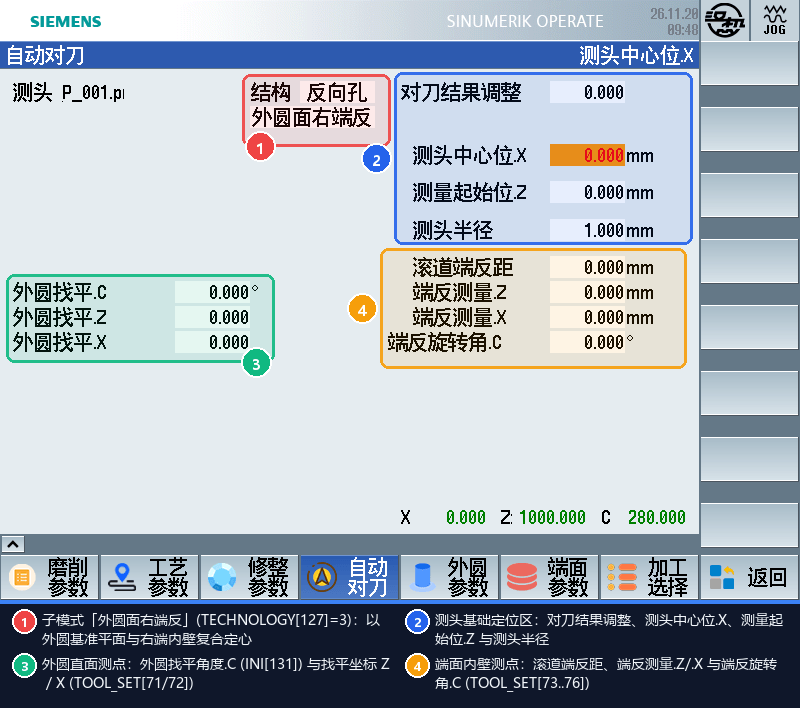
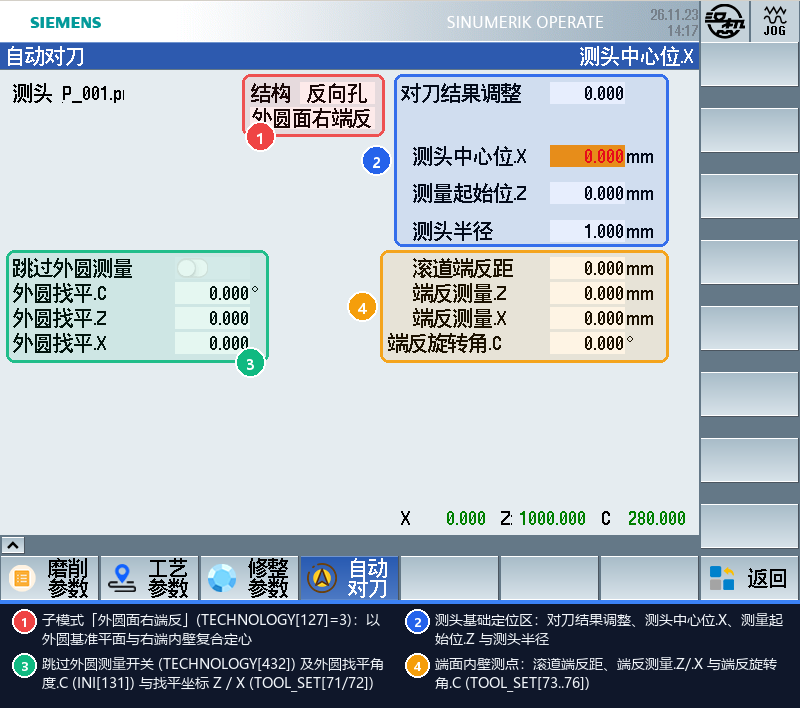
docs: 同步程序库近期更新、NC 源码核对修正与 Mask27 实拍标注图

diff --git a/tools/annotate_screenshots.py b/tools/annotate_screenshots.py
@@ -686,10 +686,10 @@ HMI_SPECS = {
     },
     "hmi_auto_internal_linewall.png": {
         "callouts": [
-            ([242, 74, 390, 146], "bot_l", "子模式「外圆面右端反」(TECHNOLOGY[127]=3)：以外圆基准平面与右端内壁复合定心"),
-            ([394, 72, 692, 244], "out_l", "测头基础定位区：对刀结果调整、测头中心位.X、测量起始位.Z 与测头半径"),
-            ([6, 274, 274, 362], "bot_r", "外圆直面测点：外圆找平角度.C (INI[131]) 与找平坐标 Z / X (TOOL_SET[71/72])"),
-            ([380, 248, 686, 368], "out_l", "端面内壁测点：滚道端反距、端反测量.Z/.X 与端反旋转角.C (TOOL_SET[73..76])"),
+            ([242, 74, 384, 136], "bot_l", "子模式「外圆面右端反」(TECHNOLOGY[127]=3)：以外圆基准平面与右端内壁复合定心"),
+            ([394, 74, 668, 246], "out_l", "测头基础定位区：对刀结果调整、测头中心位.X、测量起始位.Z 与测头半径"),
+            ([6, 250, 268, 362], "bot_r", "跳过外圆测量开关 (TECHNOLOGY[432]) 及外圆找平角度.C (INI[131]) 与找平坐标 Z / X (TOOL_SET[71/72])"),
+            ([380, 250, 668, 362], "out_l", "端面内壁测点：滚道端反距、端反测量.Z/.X 与端反旋转角.C (TOOL_SET[73..76])"),
         ]
     },
 }

diff --git a/7_dressing_and_shapes/dressing_main.md b/7_dressing_and_shapes/dressing_main.md
@@ -4,7 +4,7 @@
 
 ![SinuTrain V-W 单滚轮修整参数主界面实拍（Mask3）](../images/sinutrain/hmi_external_dress.png)
 
-> **架构差异提示**：插补式（`V-W` / `X-Z` / `U-W`）与成型滚压式（`V` / `X` / 液压摆缸）均在此主界面的顶部 **`修整器类型`** 下拉框切换；选中成型或摆缸后，`a_dress.com` 右侧 `VS7 滚压轮` 自动激活，取代三角/梯形/双圆弧等插补齿形软键；若为液压摆缸机型（`;ifIsVH`），进入滚轮子页后可在该子页右侧使用 `VS8 摆缸`。
+> **架构差异提示**：插补式（`V-W` / `X-Z` / `U-W`）与成型滚压式（`V` / `X` / 液压摆缸）均在此主界面的顶部 **`修整器类型`** 下拉框切换；选中 `V` 或 `X` 成型后，`a_dress.com` 右侧 `VS7 滚压轮` 自动激活，取代三角/梯形/双圆弧等插补齿形软键；注意当 `修整器类型` 切为 **`液压`**（`DRESSER[0]=3`）时，主界面右侧 `VS1`～`VS7` 均自动置灰，**纯液压摆缸构型无法从修整主界面直接进入 `a_dressware.com` 的 `Mask15 摆缸` 页面**（`VS8 摆缸` 仅在源码保留于 `a_dressware.com` 滚轮子页内部）。
 
 ## 1. 修整器类型与模式组合
 
@@ -14,14 +14,14 @@
   - 插补模式：**`VW`**（外/内通用 V-W 两轴）、**`XZ`**（X-Z 插补，含 `X-W`）或 **`UW`**；
   - 成型滚压模式：**`V`**、**`X`（前/后，对应 `DRESSER[37]=0/1`）** 或 **`液压`**（摆缸液压成型，对应 `DRESSER[0]=3`）；
   - 若设备同时配有滚压轮与单轴/双轴修整能力，可直接在 **`VW / V`** 或 **`XZ / X`** 之间自由切换。
-- **修整轮类型（`DRESSER[3]`）**：`0` 单滚轮 / `1` 双滚轮 / `2` 方滚轮（选中成型修整器时右侧自动切为 `VS7 滚压轮`，滚轮子页内部包含 `VS8 摆缸`）。
+- **修整轮类型（`DRESSER[3]`）**：`0` 单滚轮 / `1` 双滚轮 / `2` 方滚轮（选中 `V`/`X` 成型修整器时右侧自动切为 `VS7 滚压轮`，`a_dressware.com` 滚轮子页内部保留 `;ifIsVH` 条件编译的 `VS8 摆缸` 入口）。
 - **齿形选择（`DRESSER[4]`）**：`0` 三角 / `1` 梯形 / `2` 双圆弧（仅外螺纹全齿形且开启附加齿形时，`a_dress.com` 主页右侧 **`VS8` 扩展菜单** 可用，展开二级菜单 `MENU_2` 后点击 `VS1` 可切换 **`行星齿`**）；若在 **机床配置 → 修整配置** 中开启 **`平面修砂轮`（NC：`TECHNOLOGY[431] = 1` / HMI：`TECHNOLOGY[432]`）**，`齿形` 下拉列表会动态追加 **`4` 平面**（独立于 `DRESSER[114]`；若关闭该开关而当前仍停留在 `4`，系统载入时自动回退为 `2 双圆弧`）。
 
 ## 2. 新砂轮 vs 旧砂轮 & 新砂轮插补模式
 
 | 界面参数 | NC 变量 | 工作机理与操作建议 |
 | :--- | :--- | :--- |
-| **砂轮状态** | `DRESSER[5]` | **`0` 新砂轮**：更换新砂轮后务必手动切到此态，正确录入实际 **`新砂轮直径`**（建议比卡尺测量实值偏大约 `0.2 mm` 留空程余量）。<br>启动修整后，程序将依据 **齿高** 与 **`最大磨削直径`** 自动把砂轮修整成型并达到预定工作直径；一旦完成，系统 **自动将状态切回 `1 旧砂轮`**。<br>**`1` 旧砂轮**：日常修整使用。按界面下方设置的 **`粗修次数`** 与 **`精修次数`** 从当前接触位继续切入修整 |
+| **砂轮状态** | `DRESSER[5]` | **`0` 新砂轮**：更换新砂轮后务必手动切到此态，正确录入实际 **`新砂轮直径`**（建议比卡尺测量实值偏大约 `0.2 mm` 留空程余量）。<br>启动修整**第一刀开始后，系统即自动将状态切回 `1 旧砂轮`**，并随每次修整动态更新砂轮直径与磨削位置（中途停止后再次启动，按旧砂轮从当前接触位继续修整）；内螺纹新砂轮修整时，程序按 `(新砂轮直径 - 最大磨削直径) / 2` 自动计算粗修、精修次数（最后约 5 次为精修，界面上输入的粗修、精修次数不起作用）。<br>**`1` 旧砂轮**：日常修整使用。按界面下方设置的 **`粗修次数`** 与 **`精修次数`** 从当前接触位继续切入修整 |
 | **是否成型砂轮** | `DRESSER[113]` | *当 `TECHNOLOGY[58]=1` 且内螺纹时在 `新砂轮` 旁显示*：<br>**`0` 普通**：毛坯平砂轮，新砂轮开修从齿顶安全抬刀高度逐步一层层修出牙型；<br>**`1` 成型**：砂轮出厂前已被厂家预成型出近似槽型，无需高抬刀空走，直接贴合初始轮廓快速精成型 |
 | **新砂轮插补修整模式** | `INI[88]` | 在 **机床配置**（`a_setting.com`）设定：<br>**`0` 抬齿高**：以牙型中心线为中心逐次向深处逼近，最常用；<br>**`1` 偏半个砂轮宽度**：分别从砂轮左右侧面逐步向中心偏置剥除余量（适合深大齿型） |
 | **新砂轮轮廓单独参数** | `TECHNOLOGY[302..304]` | 当开启 `TECHNOLOGY[302]=1` 时，粗修框右侧弹出高亮副框（`LUNKUO_FEED` / `LUNKUO_SPEED`），专用于控制新砂轮第一次拉通型面的单刀进给量与修整速度 |
@@ -41,7 +41,7 @@
 | **最小磨削直径** | `DRESSER[35]` | 根据砂轮法兰盘外径或内磨杆外径 + `2×齿高` 加上安全余量设定。当 `DRESSER[24] < DRESSER[35]` 时触发 **2 号报警“砂轮太小”** |
 | **最大磨削直径** | `DRESSER[49]` | **主要针对内螺纹或限孔尺寸机型**：限制砂轮能顺利进入工件内孔的最大直径；新砂轮修整时会自动将外径修小至此尺寸以下。若加工时当前砂轮直径仍大于此值则报警拦截 |
 | **修整角度（A 轴）** | `INI[153]` | 需配 `A` 轴并开启 `INI[154]=1` 后在左上角出现，范围 `-90° ~ 90°`（默认 `0°`）；当磨削大导程/大螺旋升角需要消除干涉修整时设入该角度 |
-| **加工中修整补偿 / 累计** | `DRESSER[70]` / `DRESSER[71]` | 当开启 `DRESSER[58]=1` 后显示在左上区（`-0.5 ~ 0.5 mm`）：每完成一次 **磨削中修整**，除了正常的砂轮半径补偿外，额外把磨削接触位朝坐标轴方向再微补 `DRESSER[70]`（其总累计值只读显示在 `DRESSER[71]`），常用于消除热膨胀造成的批产尺寸单向漂移 |
+| **加工中修整补偿 / 累计** | `DRESSER[70]` / `DRESSER[71]` | 当开启 `DRESSER[58]=1` 后显示在左上区（`-0.5 ~ 0.5 mm`）：仅在 **磨削中自动修整** 时生效（单独点亮修整键时不补偿），**每精修一刀** 除正常砂轮半径补偿外，额外把磨削接触位（`PROCESS[13]` / `PROCESS[4]`）朝坐标轴方向叠加 `DRESSER[70]`（累计总值只读显示在 `DRESSER[71]`）；新砂轮修整时程序会先从磨削位置扣除 `DRESSER[71]` 再清零，首件手动对刀后亦会自动清零，常用于消除热膨胀造成的批产尺寸单向漂移 |
 | **外部齿形扩展栏** | `DRESSER[139]` / `SHAPE_MODEL[0]` / `STRING_ADDON[0]` / `SHAPE_EXTERNAL` / `PROCESS[123]` / `PROCESS[124]` | 开启 `DRESSER[110]=1` 后显现：分别设置 `齿型调用选择`（`0` 否 / `1` 左右分开 / `2` 连续轨迹）、`存储位置`、`外部程序目录`、`外部齿型程序名`、`连续曲线齿高`（`PROCESS[123]`）与 `抬刀高度`（`PROCESS[124]`，详见 [7.3 节](shape_profiles.md)） |
 | **蜗杆专用扩展栏** | `WORM_SHAPE` / `INI[18]` | 配置 `;ifIsHasWorm` 时显现：设置蜗杆廓形子程序名 `WORM_SHAPE` 与 `蜗杆齿高`（NC：`INI[18]` / HMI：`INI[19]`） |
 

diff --git a/8_auto_tool_setting/internal_auto_set.md b/8_auto_tool_setting/internal_auto_set.md
@@ -19,7 +19,7 @@
 
 | 参数名称 | NC 变量 | 标定方法与现场设置说明 |
 | :--- | :--- | :--- |
-| **对刀结果调整** | `TOOL_SET[41]` | 试磨后发现整体偏刀时输入的整体微调值（mm），不影响标定基准 |
+| **对刀结果调整** | `TOOL_SET[41]` | 试磨后发现整体偏刀时的微调量（不影响标定基准），**单位随测量方式区分**：<br>• **内滚道 / 反向孔常规模式 / 外圆面右端反**：单位为 **`mm`**（折算偏移量）；<br>• **只测 C / 测量右端小台阶 / 测量右端定位孔**：直接叠加到加工起始角 `TOOL_SET[4]`，单位为 **度（`°`）** |
 | **测头/开关水平距** | `TOOL_SET[10]` | **极其关键的基准参数**（见上图左图红箭头）：<br>① 开动机床使测头/开关接触工件右侧端面，记 Z 坐标 `Z1`；<br>② 移开测头，让砂轮齿顶对准同一右端面，记 Z 坐标 `Z2`；<br>③ 已知测头球头半径 $R_1$，填入 $\text{测量水平距} = \left| Z_1 - R_1 - Z_2 \right|$ |
 | **测头中心位** | `PROCESS[53]` | 测头球心正好位于工件回转中心线时的 X 轴坐标（接触外圆测 X 坐标再加工件外半径算出） |
 | **Z 轴测量起点** | `INI[48]` | 测头伸出并保证工件在安全孔外约 `50 mm` 处的 Z 轴起点 |
@@ -58,14 +58,17 @@
 
 ## 4. 磨削中心专属：跳动、外圆长与左右端面安全检测
 
-在 **磨削中心（`;ifIsCenter`）** 界面中，画面左侧展示复检设定与实测结果，**右侧垂直软键栏**额外配备了多道用于全自动无人产线的安全复检按钮（垂直软键随当前对刀画面动态分布：**`Mask23` 接近开关测量**含 `VS1 右端测量` / `VS2 外圆跳动` / `VS3 左端测量`，**`Mask24` 接触式测头反向孔**含 `VS1 外圆跳动` / `VS2 左端测量`）：
+在 **磨削中心（`;ifIsCenter`）** 界面中，画面左侧展示复检设定与实测结果，**右侧垂直软键栏**用于选择本次自动对刀要包含的复检项目（点亮即包含；随当前对刀画面动态分布：**`Mask23` 接近开关测量**含 `VS1 右端测量` / `VS2 外圆跳动` / `VS3 左端测量`，**`Mask24` 接触式测头反向孔**含 `VS1 外圆跳动` / `VS2 左端测量`）：
 
-1. **右端测量（默认自动测量）**：
+1. **右端测量**：
    - 输入手动对好标准件右端面时的 **`右端测量设置`（`INI[136]`）**、**`右端测量角度`（`INI[131]`）** 及 **`右端测量阈值`（`INI[137]`，如 `0.05 mm`）**；
-   - 每次自动对刀必测右端，一旦 `实测结果`（`INI[50]`）与 `设定值` 差值（`INI[139]`）超过阈值，立即触发 **12 号报警（工件右端过长）** 停机（排查毛坯超长或卡盘夹持未顶到位！）；
+   - **执行条件**：`Mask23` 内滚道方式下可单独开关（但打开 `外圆跳动` 或 `左端测量` 时会自动联动点亮，关闭 `右端测量` 时另两项同步关闭）；接触式测头方式下除外圆面右端反（`Mask27`）外均执行右端测量；
+   - **单向阈值检验**：仅校验 `实测结果`（`INI[50]`）与 `设定值` 的正向差值 `INI[139] = 实测 - 设置 > 阈值`，超限时立即触发 **12 号报警（工件右端过长）** 停机（反方向偏差不报警）；
 2. **外圆跳动测量（`INI[138]` + `INI[127]`）**：
-   - 开启后沿外圆按 3 点探测圆跳动（`INI[133]`），超过 **`外圆跳动阈值`**（`INI[127]`，如 `0.08 mm`）立刻触发 **11 号报警（外圆跳动/圆度过大）** 防偏心撞刀；
+   - **仅在内滚道（`Mask23`）和测量反向孔（`Mask24`）模式下执行**（右端台阶、右端孔、外圆面右端反不执行）；开启后沿外圆按 3 点探测圆跳动（`INI[133]`），超过 **`外圆跳动阈值`**（`INI[127]`，如 `0.08 mm`）立刻触发 **11 号报警（外圆跳动/圆度过大）** 防偏心撞刀；
 3. **左端测量与工件长度测量（`TOOL_SET[44..48]` & `INI[30]` / `INI[140]`）**：
-   - 开启 `TOOL_SET[44]=1` 后测量左端面（避让角度 `TOOL_SET[58]`、左端安全值 `TOOL_SET[45]` / 阈值 `TOOL_SET[47]` / 实测与误差 `TOOL_SET[46]` / `TOOL_SET[48]`），超限触发 **13 号报警（工件左端过长）**；同时实时反算并回显实际 **`工件外圆长度测量`（`INI[140]`）**（以上报警代码详见 [10.1 节](../10_appendix_and_troubleshooting/alarms_and_faq.md)）。
+   - 同样**仅在内滚道（`Mask23`）和测量反向孔（`Mask24`）模式下执行**；开启 `TOOL_SET[44]=1` 后，测头移到外圆外侧、比 `耳高` 低约 1.5 个测头直径处并转至 `左端测量角`（`TOOL_SET[58]`）避开卡爪，从右端面起沿 Z 向最多探测 **`工件外圆长度 + 5 mm`**（`INI[30] + 5`）寻找左端面——若 `INI[30]` 过短或 `耳高` 过大导致碰不到端面，会触发 **8 号报警（`工件长度设置有误!`）**；
+   - 端面偏差仅单向校验 `实测 - 设置 > 左端测量阈值`（`TOOL_SET[48] > TOOL_SET[47]`），超限触发 **13 号报警（工件左端过长）**；测量成功后自动将实测 **`工件外圆长度测量`（`INI[140]`）** 写回 `INI[30]`（以上报警代码详见 [10.1 节](../10_appendix_and_troubleshooting/alarms_and_faq.md)）；
+4. **整体测量顺序**：内滚道方式先测螺纹槽，再依次测右端面、外圆跳动、左端面；测头方式依次测右端面、外圆跳动、反向孔，最后测左端面。测量完成后对应工序的当前磨削接触位复位到初始值。
 
 > **重要提醒**：在磨削中心中，自动对刀完成后系统紧接着就会按 **加工选择看板** 点亮的绿色工序切入磨削；但外圆和端面的起刀深度 **仍以各自界面的 `初始磨削接触` 为准**，自动对刀仅负责核查毛坯装夹位置是否超差及求解内螺纹 C 轴起始角！

diff --git a/7_dressing_and_shapes/wheel_setup.md b/7_dressing_and_shapes/wheel_setup.md
@@ -1,6 +1,6 @@
 # 7.2 滚轮类型与修整中心校准方法
 
-在 **修整参数** 界面（`a_dress.com`）按配置动态显示的右侧垂直软键中点击 **`单滚轮`**（`VS4`）、**`双滚轮`**（`VS5`）、**`方滚轮`**（`VS6`）或 **`滚压轮`**（`VS7`），即可进入 `a_dressware.com` 对应硬件型号的滚轮标定页；若配置为液压摆缸机型（`;ifIsVH`），进入 `a_dressware.com` 滚轮子界面后可点击子页右侧 **`摆缸`**（`VS8`）切入 `Mask15`。
+在 **修整参数** 界面（`a_dress.com`）按配置动态显示的右侧垂直软键中点击 **`单滚轮`**（`VS4`）、**`双滚轮`**（`VS5`）、**`方滚轮`**（`VS6`）或 **`滚压轮`**（`VS7`），即可进入 `a_dressware.com` 对应硬件型号的滚轮标定页；注意当 `修整器类型` 为纯 `液压`（`DRESSER[0]=3`）时，`a_dress.com` 主页 `VS1`～`VS7` 会全部置灰，无法直接进入 `a_dressware.com`（`Mask15 摆缸` 仅在源码保留于 `a_dressware.com` 滚轮子页内部 `VS8 摆缸`（`;ifIsVH`），供具备双构型入口的历史/定制机型进入）。
 
 ![SinuTrain 单滚轮修整中心与接触位校准界面实拍（Mask4）](../images/sinutrain/hmi_external_wheel.png)
 
@@ -15,7 +15,7 @@
 | **单滚轮** | `Mask4`（VW/UW）<br>`Mask12`（XZ/XW） | **`圆弧半径`**（`WHEEL[4]`，即滚轮尖端圆弧角 `R`，务必查图纸输入精确值，精度至 `0.0001 mm`） | **修整中心**、`初始接触位置`、`当前接触位置`、**`修整轮直径`**（`WHEEL[0]`）、**`修整轮线速度`**（`WHEEL[1]`，常用 `15 m/s`）与自动换算的 **`修整轮转速`**（`WHEEL[19]`） |
 | **方滚轮** | `Mask6`（VW/UW）<br>`Mask14`（XZ/XW） | **`方滚轮厚度`**（`WHEEL[3]`）、**`左圆弧半径`**（`WHEEL[8]`）、**`右圆弧半径`**（`WHEEL[9]`） | 同上，影响方滚轮修整两侧砂轮边缘时的偏置宽度与倒圆补偿 |
 | **双滚轮** | `Mask5`（VW）<br>`Mask13`（XZ） | **`双滚轮间距`**（`WHEEL[2]`）、**`左/右圆弧半径`**（`WHEEL[6]` / `WHEEL[7]`）、**`左右轮高低差`**（`WHEEL[15]`：实测左高右低输正，左低右高输负）、左/右端分别独立的初始与当前接触位（初始 `WHEEL[12]` / `WHEEL[13]` 与当前 `WHEEL[10]` / `WHEEL[11]`） | 同上，专用于两边对称或高速双面成型插补 |
-| **滚压轮 / 摆缸** | `Mask11`（VW）<br>`Mask16/17/19`（XZ/X）<br>`Mask15`（液压摆缸） | **`粗修停留时间`**（`DRESSER[47]`）与 **`精修停留时间`**（`WHEEL[18]`，推荐 `1 s`）；**`修整中反向距离`**（`INI[11]`：`0 ~ 1 mm`，`0` 表示持续进给不退让）；**`齿高`**（`DRESSER[1]`）；**`轮廓成型接触`**（`WHEEL[12]`）；**`成型修完侧面靠磨`**（使能 `TECHNOLOGY[308]`、**`靠磨-后退距离`** `TECHNOLOGY[350]`、**`靠磨-侧进距离`** `TECHNOLOGY[351]`）；液压摆缸页实时监控 **`液压左接触`（`WHEEL[16]`）** 与 **`液压右接触`（`WHEEL[17]`）** 开关状态 | **`VW/XZ`** 下的滚压轮仍需设置 `修整中心`，`XZ`/`X` 模式需校验 `修整中心距` |
+| **滚压轮 / 摆缸** | `Mask11`（VW）<br>`Mask16/17/19`（XZ/X）<br>`Mask15`（液压摆缸） | **`粗修停留时间`**（`DRESSER[47]`）与 **`精修停留时间`**（`WHEEL[18]`，推荐 `1 s`）；**`修整中反向距离`**（`INI[11]`：`0 ~ 1 mm`，滚压轮每次进给停留后**修整轮向后回退**脱离砂轮的距离，`0` 表示不回退直接连续进给）；**`齿高`**（`DRESSER[1]`）；**`轮廓成型接触`**（`WHEEL[12]`）；**`成型修完侧面靠磨`**（使能 `TECHNOLOGY[308]`、**`靠磨-后退距离`** `TECHNOLOGY[350]`、**`靠磨-侧进距离`** `TECHNOLOGY[351]`）；液压摆缸页实时监控 **`液压左接触`（`WHEEL[16]`）** 与 **`液压右接触`（`WHEEL[17]`）** 开关状态 | **`VW/XZ`** 下的滚压轮仍需设置 `修整中心`，`XZ`/`X` 模式需校验 `修整中心距` |
 
 ![SinuTrain VW 双滚轮间距、高低差与左右独立接触位校准界面实拍（Mask5）](../images/sinutrain/hmi_wheel_dual.png)
 

diff --git a/10_appendix_and_troubleshooting/alarms_and_faq.md b/10_appendix_and_troubleshooting/alarms_and_faq.md
@@ -13,7 +13,7 @@
 | **`5`** | `测头无法进入孔内,请检查参数设置!` | 内螺纹自动对刀检测反向孔时，测头按预定角度和偏心无法顺利进孔（触碰孔壁或未开启孔周探测） | 检查 `反向孔测量角`、`距右端距离`、`Z 起点`、`测头中心位`、孔圆/腰型参数，或开启 **孔周探测**（`TECHNOLOGY[155]=1`） |
 | **`6`** | `检测不到信号,检查测量位.X是否合适!` | 接近开关扫描时在预定行程内未收到触发反馈（<code>&#36;A_PROBE</code> / <code>&#36;AC_MEA</code> 未响应） | 确认传感器供电及 `DB2700.DBX1.0/1.1` 状态灯能正常触发，微调 `测量位.X` 令传感器进入有效感应区 |
 | **`7`** | `测头距离工件过远,或检测位置太靠外侧!` | 测头移动完整行程仍未接触工件表面 | 核对 `测头中心位`、`外圆直径`、`右端测量设置` 或传感器伸出机械限位，适当往安全方向缩短空程距离 |
-| **`8`** | `工件长度设置有误!` | 外圆长度/左右端坐标推算长度 `<= 0` 或不符合 `保持分段`/台阶要求 | 检查磨削中心 `外圆长度`（`INI[30]`）及左右端接触坐标 |
+| **`8`** | `工件长度设置有误!` | 外圆长度/左右端坐标推算长度 `<= 0` 或不符合 `保持分段`/台阶要求；磨削中心左端测量沿 Z 向移动 `工件外圆长度 + 5 mm` 未碰到左端面也会触发此报警 | 检查磨削中心 `外圆长度`（`INI[30]`）及左右端接触坐标 |
 | **`9`** | `外圆砂轮过小,请更换新砂轮!` | 磨削中心外圆砂轮当前直径 `DRESSER[91]` 低于外圆 `最小磨削直径` `DRESSER[137]` | 更换外圆砂轮并切回 **新砂轮** 状态，重标外圆及端面初始接触位 |
 | **`10`** | `变螺距设置有误!` | 开启了多螺距变换但分段位置坐标未呈单调递增/递减排序或目标螺距 `<= 0` | 进入 `磨削参数 → VS5 螺距变换`，核对 `位置 1~6` 顺序与螺距值 |
 | **`11`** | `外圆跳动:XXmm,工件圆度过大!阈值:XXmm` | 磨削中心自动对刀测得三点外圆跳动 `INI[133]` 大于 `外圆跳动阈值` `INI[127]` | 重新找正装夹工件、清理卡盘铁屑或核对三点测量角度后复测 |
@@ -33,3 +33,4 @@
 | **输入数值报错或自动恢复原值** | 修改中径/进给量/头架转速/安全位置时被拒绝 | 触及 **系统配置 → 第六类参数输入限制** 保护阈值（默认中径 `±1 mm`、非粗磨进给 `±0.1 mm`、转速 `60 RPM`、内磨安全 Z 距右端 `>= 30 mm`）。或右侧小锁未解锁 |
 | **纯修整也提示磨削位置报警** | 仅点亮修整键修砂轮，却提示左端>右端等报警 | 程序运行前会先经过 `C_PAR_INI` 统一初始化检验，须先在 **磨削参数** 页填入大致有效的左/右端及退刀位置后再修整 |
 | **解锁配置页报缺失/无效** | `a_setting.com` `Mask0` 提示 `配置丢失` / `配置缺损` / `配置无效` | 检查 `user/`、`oem/` 或 `siemens/` 路径下的 `sinumerik/hmi/cfg/machine_sec.ini` 是否随包完整导入、无手工改动字段（见 [3.1 节](../3_creator_tools/password_calculator.md)） |
+| **自动对刀过程停机提示（`C_OPERATION_AUTO.SPF` 直接 `MSG` 提示）** | 1. `测量失败, 请检查测量位置设置是否合适`<br>2. `测量错误,测头未检测到信号`<br>3. `测头回退出错,请检查`（以上提示已支持中/英/俄三语） | 1. 内滚道方式连续 5 次碰到牙顶仍未找到槽内空隙：重新核对 `测量位.Z` 是否对准螺纹槽；<br>2. 外圆面右端反模式未测到找平面或端反内壁：核对 `外圆找平` 与 `端反测量` 坐标；<br>3. 测量轴探测回退期间传感器信号未及时复位（如外螺纹开关压在牙顶且 C 轴正转 3 次每次 5° 仍未离开）：检查测头/开关位置与工件装夹 |

diff --git a/9_grinding_center/endface_grinding.md b/9_grinding_center/endface_grinding.md
@@ -11,7 +11,7 @@
 | 区域 | 关键输入字段 | NC 变量 | 自动起止位置计算公式与规则 |
 | :--- | :--- | :--- | :--- |
 | **公共** | **加工模式** | `INI[103]` | `0` 单件小批量 / `1` 批量生产（同样控制从初始接触还是当前接触起刀） |
-| **左端面（左侧栏）** | **耳高** | `INI[43]` | 实测工件左端凸缘/耳环径向高度（精确至 `0.1 mm`）。系统自动据此算得左端切入范围：<br>• `磨削起点` $\approx$ 外圆当前接触 $\pm 0.1\text{ mm}$<br>• `磨削终点` $\approx$ 外圆当前接触 $\pm \text{耳高} \pm 1\text{ mm}$（随外磨有 U 轴 / X 前置 / X 后置方向自动确定符号） |
+| **左端面（左侧栏）** | **耳高** | `INI[43]` | 实测工件左端凸缘/耳环径向高度（精确至 `0.1 mm`）。系统自动据此算得左端切入范围（按外圆轴向与前后置构型区分符号）：<br>• 有独立 `U` 轴（`;ifIsHasU`）或无 `U` 轴外磨前置（`;ifIsNotHasUFront`）：`磨削起点 = 外圆当前接触 + 0.1 mm`，`磨削终点 = 外圆当前接触 + 耳高 + 1 mm`；<br>• 无 `U` 轴外磨后置（`;ifIsNotHasUBack`）：`磨削起点 = 外圆当前接触 - 0.1 mm`，`磨削终点 = 外圆当前接触 - 耳高 - 1 mm`；<br>实际拉磨终点再按左端面 `终点补偿`（`TECHNOLOGY[45]`）缩短；端面磨削以外圆当前接触为基准，因此应先完成外圆磨削 |
 | | **左端终点补偿 / 初始 & 当前接触 .Z / 磨削补偿** | `TECHNOLOGY[45]` / `PROCESS[48/34]` / `TECHNOLOGY[297]` | 手动靠磨左端面后退约 `0.05 ~ 0.1 mm` 输入 `初始接触.Z`；成品轴向偏差微调使用 `磨削补偿`（`±1 mm`，开放 **`ac7` 钥匙开关 0 档** 权限以便日常尺寸微调；`VS2 工艺` 表内次数与进给量则统一为 **`ac4` 钥匙开关 3 档**） |
 | **右端面（右侧栏）** | **壁厚** | `PROCESS[27]` | 实测工件右端壁面径向厚度（精确至 `0.1 mm`）。自动算得右端切入范围：<br>• `磨削起点` $\approx$ 外圆当前接触 $\mp \text{壁厚}$<br>• `磨削终点` $\approx$ 外圆当前接触 $\pm 1\text{ mm}$ |
 | | **右端终点补偿 / 初始 & 当前接触 .Z / 磨削补偿** | `TECHNOLOGY[46]` / `PROCESS[47/37]` / `TECHNOLOGY[298]` | 手动靠磨右端面后填入 `初始接触.Z`；若仅需磨右端而不完全离开外圆面可填写 `右端终点补偿`（但不可大到令终点反超起点）；`磨削补偿` 同样支持 **`ac7` 钥匙开关 0 档** 直接微调 |
@@ -22,7 +22,7 @@
 
 端面工艺表 `Mask25` 同时呈现 **四列独立参数**（**左端面 粗磨 / 精磨** ｜ **右端面 粗磨 / 精磨**），方便针对左右端不同的余量分布独立优化：
 - 同样支持 **`保持`**（轴向快速进刀停留磨削，适合去余量）与 **`来回`**（沿端面径向来回光刀）；
-- 粗磨推荐 **`保持`**，头架转速建议设为 **`120 ~ 200 RPM`** 以上以提升端面平面度；
+- 粗磨推荐 **`保持`**，头架转速一般设为 **`120 r/min` 左右**，再按实际表面粗糙度与加工效果微调；
 - 表格上方同步只读监控 **`左端累计/设定磨削`**（`PROCESS[60]` / `PROCESS[116]`）与 **`右端累计/设定磨削`**（`PROCESS[61]` / `PROCESS[117]`）；表格底部提供 `砂轮线速度`、自动换算 `头架转速` 与定转速模式下的 `砂轮转速`。
 
 ## 3. 端面修整参数与双向交叉补偿机制（`Mask27`）

diff --git a/2_creator_machine_config/machine_and_system_info.md b/2_creator_machine_config/machine_and_system_info.md
@@ -19,7 +19,7 @@
 
 | 界面字段 | JSON 键名 & UI 枚举（索引从 `0` 起） | 底层生成差异（由 `generatepro.cpp` 控制） |
 | :--- | :--- | :--- |
-| **机床语言** | `lng`：`0` 中文 / `1` 多语言 | `lng=0` 时移除 `;ifIsENG` 英文/多语言段、保留纯中文；`lng=1` 时移除 `;ifIsCHS` 并打包多语言 `almc_*.txt` 与 `hlp/eng` 等资源，便于在现场切换中/英文显示。 |
+| **机床语言** | `lng`：`0` 中文 / `1` 多语言 | `lng=0` 时移除 `;ifIsENG` 英文/多语言段、保留纯中文；`lng=1` 时移除 `;ifIsCHS` 并打包多语言 `almc_*.txt` 与 `hlp/eng`、`hlp/rus` 三语帮助资源，便于在现场切换中/英/俄三语显示。 |
 | **数控系统** | `systemMode`：`0` 老版 828D | 将 HMI 运行包写入 `System-CF-Card/siemens` 与 `user`，使用 `ico800`（`800×600`）图标资源。在 **SinuTrain 840D sl 4.8 SP4** 中预览测试时优先选择此模式（或与 840D sl 共用目录）。 |
 | | `1` 新版 828D | 将核心系统界面文件放入 `System-CF-Card/oem` 与 `user` 目录（不生成 `siemens` 覆盖包），并将 `ico800` 资源切换为 `ico1024`（`1024×768`）适配高分辨率面板。 |
 | | `2` Sinumerik ONE | 同样输出到 `oem` + `user`（`ico1024`），并额外执行 `oneReplace.json` 跨平台映射表：<br>① 把传统 <code>&#36;A_DBB[...]</code>、DB4900 等信号批量替换为 ONE 的高速输入/输出符号（如 <code>&#36;A_IN[...]</code>、`digitInpVal[...]`）；<br>② 适配 `DB10.DBX107.0/1` 系统信号与 `1170×600` 宽屏面板坐标。 |
@@ -31,7 +31,7 @@
 | :--- | :--- | :--- |
 | **删除注释** | `ifRemoveComments`：**`0` 是 / `1` 否** | **注意索引顺序**：下拉第 1 项 **`0 = 是`**（生成完成后自动剥离 `.COM`/`.SPF`/`.MPF` 中常规 `;` 注释，保留 `;*` 与 `;\"` 等语法标记），第 2 项 **`1 = 否`**（保留全部源码注释以便现场调试核对）。 |
 | **机械手** | `ifHasLoadingArm`：`0` 无 / `1` 有 | 选 `1 有` 后保留桁架机械手自动上下料交互子程序 `A_JXS_MAIN.SPF` / `B_JXS_ZJ.SPF` / `B_JXS_TEST.SPF`、`M80`～`M97` 握手代码、<code>&#36;A_DBB[30..34/60..67]</code> 互锁及 `Z轴上料位` 显示；选 `0 无` 则彻底裁剪。 |
-| **删除厂商标识图** | `ifHasNoneTradeMark`：`0` 否 / `1` 是 | 选 `1 是` 后使用 `Source_Library/0_NoneTradeMark` 下的通用无品牌标识欢迎底图，实现 OEM 中性化交付；选 `0 否` 则显示标准出厂品牌图。 |
+| **删除厂商标识图** | `ifHasNoneTradeMark`：`0` 否 / `1` 是 | 选 `1 是` 后使用 `Source_Library/HMI/Repository/0_NoneTradeMark` 下的通用无品牌标识欢迎底图，实现 OEM 中性化交付；选 `0 否` 则显示标准出厂品牌图。 |
 | **后期加密程序** | `ifHasEncryption`：`0` 否 / `1` 是 | 开启后在主入口 `A_GRINDING.SPF` 等处保留 `ifIsHasEncryption` 分支，运行时强校验控制器硬件序列号 <code>&#36;MN_HW_SERIAL_NUMBER</code>，不匹配时报警 `"设备未授权,请联系厂家！"` 并锁止循环。 |
 
 > **警告**：启用 **加密保护** 时，务必提前核对目标机床 CF 卡的真实 <code>&#36;MN_HW_SERIAL_NUMBER</code>，否则程序包导入现场机床后无法启动循环！

diff --git a/9_grinding_center/cylindrical_and_step.md b/9_grinding_center/cylindrical_and_step.md
@@ -12,8 +12,8 @@
 - **无 `U` 轴共用 `X` 轴**：若外圆砂轮位于前面（`ifIsNotHasUFront`），`PROCESS[57] = 1`；若位于后方（`ifIsNotHasUFront` 反之即 `Back`），`PROCESS[57] = -1`。
 
 ### 1.2 核心字段与起止点自动联动公式
-- **`磨削起点`** 与 **`磨削终点`** 无需手工填死，程序 **自动依据 `端面参数` 页面内的左/右端面初始接触位计算**（对应关系：`起点 = 左端面初始接触 + 0.1 mm`，`终点 = 右端面初始接触 + 0.1 mm`）；
-- **`退刀槽长度`（`PROCESS[112]`）**：根据工件左端根部退刀槽实际宽度填写。从起点向右端进给时自动跳过退刀槽避免砂轮尖角重载崩坏或拉出振纹，反向回来再扫清退刀槽根部；
+- **`磨削起点`** 与 **`磨削终点`** 无需手工填死，程序 **自动依据 `端面参数` 页面内的左/右端面初始接触位计算**（对应关系：`磨削起点 = 左端面初始接触 + 0.1 mm + 退刀槽长度`，即 `PROCESS[48] + 0.1 + PROCESS[112]`；`磨削终点 = 右端面初始接触 + 0.1 mm`，实际来回拉磨时终点再减去 `外圆终点补偿` `TECHNOLOGY[44]`，即 `PROCESS[47] + 0.1 - TECHNOLOGY[44]`）；
+- **`退刀槽长度`（`PROCESS[112]`）**：根据工件左端根部退刀槽实际宽度填写。外圆磨削起点会自动让开 `退刀槽长度`，砂轮在退刀槽以外进刀，**来回拉磨的范围均不包含退刀槽段**，避免砂轮尖角在退刀槽处切入磨损产生条纹；
 - **`外圆初始磨削接触`（`PROCESS[46]`）** / **`当前磨削接触`（`PROCESS[20]`）**：手动对刀用砂轮轻触外圆后，建议往安全侧回退 `0.05 ~ 0.1 mm` 输入 `初始接触`（*注：磨削中心的自动对刀只管测量端面/跳动/内孔，**外圆和端面的实际磨削起点位置均以此处手动输入为准***）；
 - **`磨削尺寸补偿`（`TECHNOLOGY[296]`）**：范围 `-1.0 ~ 1.0 mm`，微调外圆成品最终外径尺寸（**正值成品变大，负值变小**；该补偿项开放 **`ac7` 钥匙开关 0 档** 权限，便于操作工日常批产直接微调尺寸，而 **`VS2 工艺`** 表内粗/半精/精/终磨循环次数与进给深度统一受 **`ac4` 钥匙开关 3 档** 保护）；
 - **`外圆退刀位`（`INI[107]`）** & **`台面磨削起始`（`INI[108]`）**：务必把 `外圆退刀位` 设在外圆轴极限安全退避点，防止加工内螺纹期间发生机械干涉及碰撞。

diff --git a/10_appendix_and_troubleshooting/README.md b/10_appendix_and_troubleshooting/README.md
@@ -5,5 +5,5 @@
 - [10.1 报警代码对照表与现场常见问题](alarms_and_faq.md) —— `C_ALARM.SPF` 全套 14 项 `DRESSER[6]` 报警原因与处理、配件寿命与授权停机提示、密码页状态诊断及现场 FAQ；
 - [10.2 全量 M 代码表与 PLC-NC 交互信号](m_codes_and_signals.md) —— `M0`～`M99` 逐号全量 M 代码（含 `M206`/`M03`/`M04` 扩展说明）、`M80`～`M97` 桁架机器人握手、<code>&#36;A_DBB</code> 与 `DB4900` 全量 46 项交换表及 14 项快速 I/O 与测头接口；
 - [10.3 全量配置界面对应变量表](config_ui_variables.md) —— 机床端 `a_setting.com`（`Mask1` 6 大类 93 项可见配置 + `PROCESS[122]` + 9 项后台隐藏变量 + `SUB(UP1)`～`SUB(UP9)` 动态读写联动）及 PC 端 `HorizonJuicerCreator` 31 项 JSON 配置全量对照；
-- [10.4 全量全局变量与 R 参数索引表](full_variable_index.md) —— `0-based` vs `1-based` 索引转换铁律、`MGUD.DEF` 全部 60 项声明总览、`Parameter_Index.md` 全部 30 个分类 1,553 条变量全量展开（对应全部 1,561 个数据行）及 22 项补充系统/备份变量；
+- [10.4 全量全局变量与 R 参数索引表](full_variable_index.md) —— `0-based` vs `1-based` 索引转换铁律、`MGUD.DEF` 全部 60 项声明总览、`Parameter_Index.md` 全部 30 个分类 1,554 条变量全量展开（对应全部 1,562 个非空表格行）及 22 项补充系统/备份变量；
 - [10.5 条件编译与字符替换标记全表](replace_markers.md) —— 4 种源码/HTML 替换标记语法、`ReplaceMarker.md` 与 `generatepro.cpp` 全部 66 项 `;ifIs...` 条件编译裁剪规则、12 项元数据占位替换以及 `oneReplace.json` 47 项 Sinumerik ONE 跨平台信号映射。

diff --git a/10_appendix_and_troubleshooting/full_variable_index.md b/10_appendix_and_troubleshooting/full_variable_index.md
@@ -1,6 +1,6 @@
 # 10.4 全量全局变量与 R 参数索引表
 
-本节汇集 `MGUD.DEF` 全部 60 条自定义全局变量声明、`Parameter_Index.md` 全部 30 个分类共 1,554 条变量明细（对应 `Parameter_Index.md` 全部 1,561 个非空表格行中的 8 个子分组标题与 1,554 个独立条目），以及 `Parameter_Index.md` 未展开的 22 项系统/备份统计变量。
+本节汇集 `MGUD.DEF` 全部 60 条自定义全局变量声明、`Parameter_Index.md` 全部 30 个分类共 1,554 条变量明细（对应 `Parameter_Index.md` 全部 1,562 个非空表格行中的 8 个子分组标题与 1,554 个独立条目），以及 `Parameter_Index.md` 未展开的 22 项系统/备份统计变量。
 
 > **0-based（NC）与 1-based（HMI ACX）下标偏移铁律**：<br>• `.SPF` / `.MPF` 子程序、`MGUD.DEF` 与 `Parameter_Index.md` 使用 **0-based** 下标（例如 `DRESSER[0]`、`INI[36]`）；<br>• EasyScreen `.com` 界面脚本（`/NC/_N_NC_GD2_ACX/...`）使用 **1-based** 下标（**HMI 下标 = NC 下标 + 1**，例如 `DRESSER[1]`、`INI[37]`）；<br>• `MGUD.DEF` 自定义变量名超过 60 个，激活前必须确保通用机床数据 **`MD18120 >= 70`**。若将早期 `TECHNOLOGY[420]` 控制器升级至 `TECHNOLOGY[500]` 新版 `MGUD.DEF`，激活前务必先备份原 GUD 数据，激活后执行 `VS3 重置数据` 并恢复业务参数。
 

diff --git a/5_custom_and_system/stats_and_life.md b/5_custom_and_system/stats_and_life.md
@@ -7,9 +7,9 @@
 ![加工统计与砂轮更换历史台账实拍](../images/sinutrain/hmi_stats_wheel.png)
 
 ### 1.1 左侧：99 组换砂轮历史加工台账
-每次在磨削/修整流程（如 `B_DRESS.SPF` 中 `DRESSER[5] == 0` 切换新砂轮，或初次运行）启用新砂轮时，系统会自动将 **当前砂轮序号**（`CUR_WHEEL`）加 1（范围 `1～99` 循环覆盖），并在 **该编号记录表** 中写下两条实时数据：
+每次在磨削/修整流程（如 `B_DRESS.SPF` 中 `DRESSER[5] == 0` 切换新砂轮并**启动修整**时，或初次运行）启用新砂轮时，系统会自动将 **当前砂轮序号**（`CUR_WHEEL`）加 1（范围 `1～99` 循环覆盖），并在 **该编号记录表** 中写下两条实时数据：
 - **`WHEEL_CHANGED_DATA[CUR_WHEEL]`**：本次更换启用新砂轮时的控制器年月日与时分秒时间戳；
-- **`WHEEL_GRIND_CUMU[CUR_WHEEL]`**：该片砂轮服役期间已累计完成的合格工件加工数量。
+- **`WHEEL_GRIND_CUMU[CUR_WHEEL]`**：该片砂轮服役期间**仅统计批量生产模式（`INI[26]<>0`）**下已累计完成的合格工件加工数量（单件调整模式不计数）。
 
 > **管理作用**：工艺主管可直观调阅最近 99 次更换砂轮的时间跨度与单轮产出效率（件/片），识别砂轮批次质量波动或修整过度问题。
 

diff --git a/6_thread_grinding/main_grinding.md b/6_thread_grinding/main_grinding.md
@@ -49,8 +49,8 @@
 
 - **全长导程补偿**（`INI[24]`）：根据激光干涉仪或三坐标检测全长螺距累计误差输入补偿值（mm）；
 - **全长锥度补偿**（`INI[141]`）：根据圆度/锥度检测报告输入全长 **半径方向** 锥度微调量；
-- **中径调整**（`GRIND[4]`）：输入 **直径方向** 偏差（受 `TOOL_SET[11]` 限值保护，默认 `±1 mm`）。按需要加减磨削余量，在下一轮循环或执行写入后生效；
-- **偏刀调整**（`TOOL_SET[42]`）：当实测螺纹半牙一侧切多一侧切少（偏刀）时输入 Z 向偏移补偿。
+- **中径调整**（`GRIND[4]`）：输入 **直径方向** 偏差（受 `TOOL_SET[11]` 限值保护，默认 `±1 mm`）。按需要加减磨削余量，为单次补偿——**仅在下次磨削开始时**将补偿量的一半累加到 `初始接触` 与 `当前接触` 后自动清零（单独执行修整或对刀时不处理，保留到磨削时生效）；
+- **偏刀调整**（`TOOL_SET[42]`）：当实测螺纹半牙一侧切多一侧切少（偏刀）时输入 Z 向偏移补偿。同样为单次补偿——**仅在下次磨削开始时**折算并累加到 `加工起始角.C` 后自动清零（单独修整或对刀时不消耗）。
 
 ## 2. 标准手动对刀操作全步骤（首次对刀 + DRF）
 
